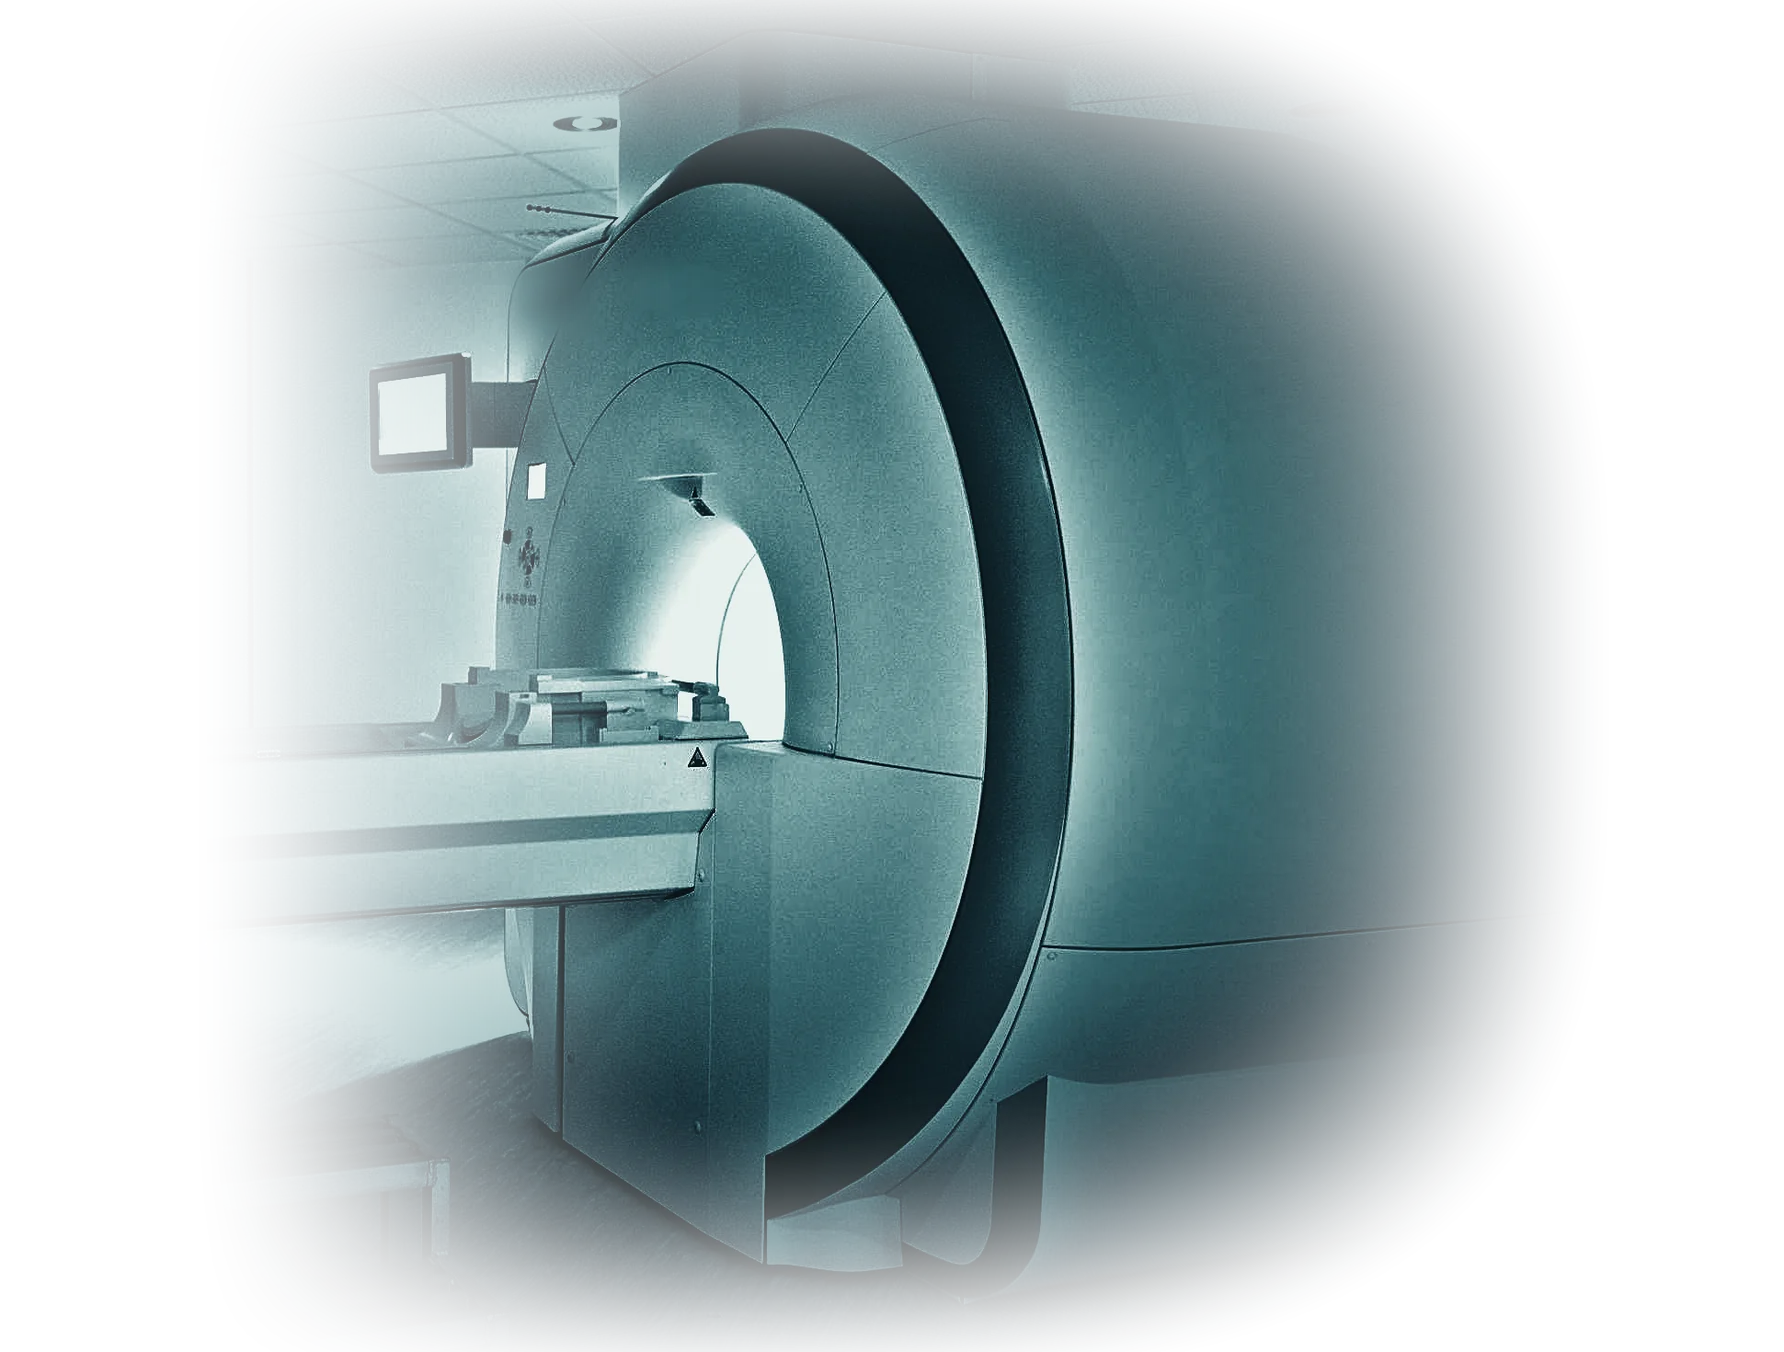
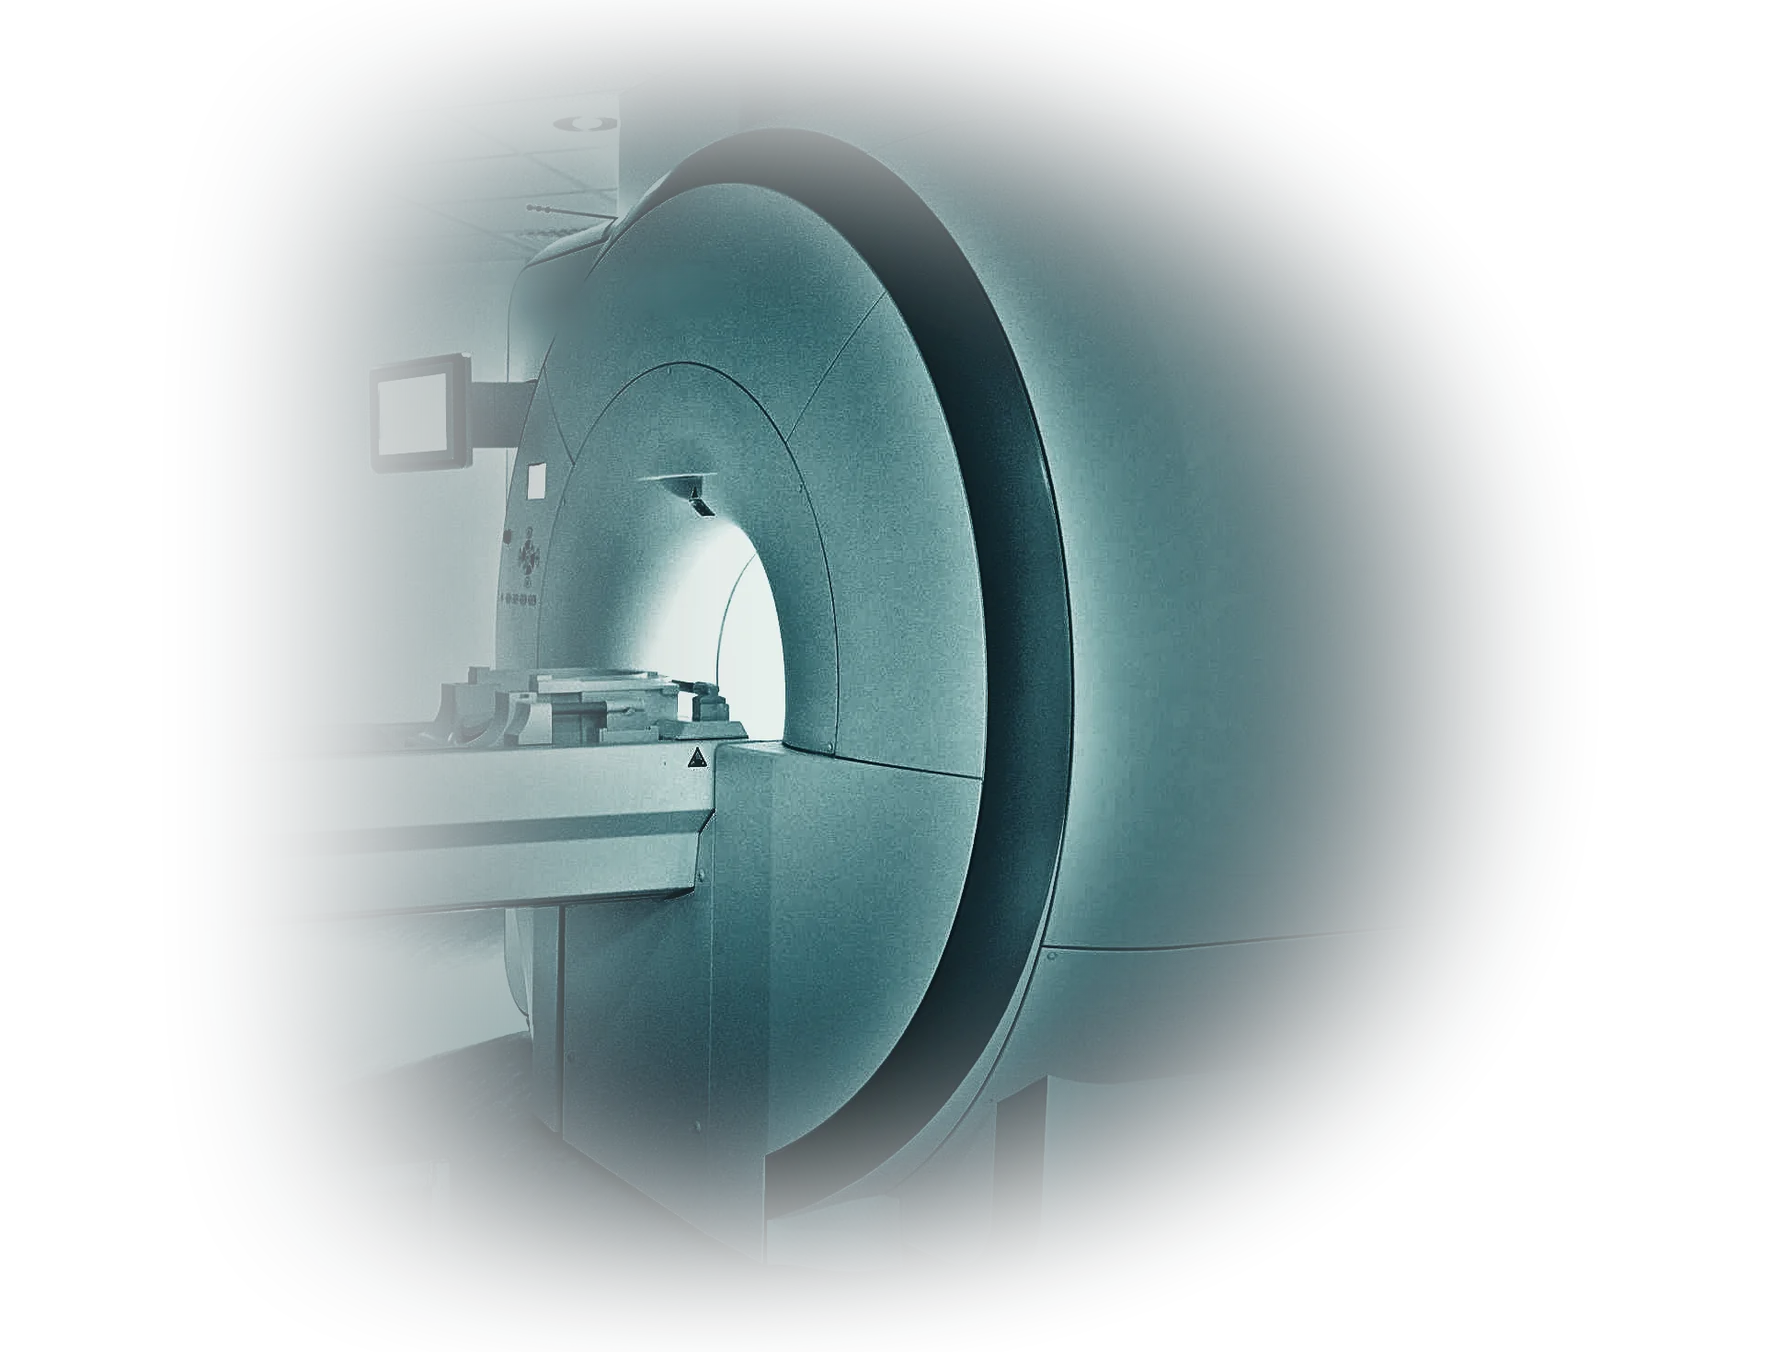
champaign-imaging: hero mask floor matches page ink (DP x6 check), longer eased fade
Claude-Session: https://claude.ai/code/session_014388NGhbawoyc2wbN2hcP1

diff --git a/_kit/home/champaign-imaging/grade.py b/_kit/home/champaign-imaging/grade.py
@@ -61,7 +61,7 @@ L = np.clip(L * light + glow, 0, 1)
 L = np.clip(L, 0, 1)
 L = L * L * (3 - 2 * L) * 0.55 + L * 0.45
 
-stops = [(0.00, (7, 16, 19)), (0.30, (20, 44, 52)), (0.55, (55, 104, 110)), (0.78, (134, 176, 176)), (1.00, (232, 241, 238))]
+stops = [(0.00, (10, 21, 23)), (0.30, (22, 46, 54)), (0.55, (55, 104, 110)), (0.78, (134, 176, 176)), (1.00, (232, 241, 238))]
 xs = np.array([s[0] for s in stops])
 rgb = np.stack([np.interp(L, xs, np.array([s[1][c] for s in stops])) for c in range(3)], -1)
 # slate in the lower body (logo's lower lobe colour), very slight
@@ -72,12 +72,15 @@ rgb = rgb * (1 - wt) + slate * wt
 # alpha: long eased superellipse centred on the gantry
 gx, gy = 1500 - cx0, 900 - cy0
 rx, ry = w * 0.56, h * 0.54
-r = (np.abs((xx - gx) / rx) ** 3.2 + np.abs((yy - gy) / ry) ** 3.2) ** (1 / 3.2)
-t = np.clip((1.0 - r) / 0.42, 0, 1)
-alpha = t * t * (3 - 2 * t)
+r = (np.abs((xx - gx) / rx) ** 2.4 + np.abs((yy - gy) / ry) ** 2.4) ** (1 / 2.4)
+t = np.clip((1.02 - r) / 0.6, 0, 1)
+alpha = t * t * t * (t * (t * 6 - 15) + 10)
 # the table runs out of the frame on the left: a longer fade there
-lf = np.clip((xx - w * 0.10) / (w * 0.30), 0, 1)
-alpha *= lf * lf * (3 - 2 * lf)
+lf = np.clip((xx - w * 0.06) / (w * 0.40), 0, 1)
+alpha *= lf * lf * lf * (lf * (lf * 6 - 15) + 10)
+# near the mask edge the colour itself sinks to the page ink (#0a1517), so no faint bright rim survives a x6 boost
+ink = np.array([10, 21, 23], np.float32)
+rgb = ink + (rgb - ink) * (alpha ** 0.7)[..., None]
 outa = np.dstack([np.clip(rgb, 0, 255), alpha * 255]).astype(np.uint8)
 res = Image.fromarray(outa, 'RGBA')
 res = res.resize((int(w * 0.92), int(h * 0.92)), Image.LANCZOS)

diff --git a/_kit/dossiers/champaign-imaging.md b/_kit/dossiers/champaign-imaging.md
@@ -24,7 +24,7 @@ Sources fetched 2026-11-21: champaignimaging.com (/, /nextgen-neuroimaging/, /te
 - Built: ink #0a1517 (matched to the graded hero), accent teal lifted to #7dbfb0 on dark, #2f6b60 on light; slate in the story. Mark: the logo's brain cropped from their PNG (pulse line knocked out); wordmark Raleway CHAMPAIGN / IMAGING. Display Literata, text Figtree.
 
 ## Build
-- Hero (option b): Pexels photo 7089013 by MART PRODUCTION (an MRI scanner: gantry, bore and table), Pexels licence: https://www.pexels.com/photo/photo-of-ct-scan-medical-equipment-7089013/ (CDN https://images.pexels.com/photos/7089013/pexels-photo-7089013.jpeg?w=2600). Pexels titles it "CT scan" but it is an MRI scanner. Not the same frame as omnecoil's 7089017 (front bore close-up); this is the side view with the whole gantry. _kit/home/champaign-imaging/grade.py: maker lettering and model plate softened, light falls off from the bore, tonal tritone to teal/slate, long eased superellipse alpha mask. Placed centred at ~73% of the content width, never upscaled; measured H1/lede-to-first-pixel gap 118px at 1280, 194px at 1440, 187px at 1920x930, 182px at 1920x1080. Slow Ken Burns; no pointer. Phones: top band fading above the text.
+- Hero (option b): Pexels photo 7089013 by MART PRODUCTION (an MRI scanner: gantry, bore and table), Pexels licence: https://www.pexels.com/photo/photo-of-ct-scan-medical-equipment-7089013/ (CDN https://images.pexels.com/photos/7089013/pexels-photo-7089013.jpeg?w=2600). Pexels titles it "CT scan" but it is an MRI scanner. Not the same frame as omnecoil's 7089017 (front bore close-up); this is the side view with the whole gantry. _kit/home/champaign-imaging/grade.py: maker lettering and model plate softened, light falls off from the bore, tonal tritone to teal/slate, long eased superellipse alpha mask. Placed centred at ~73% of the content width, never upscaled; measured H1/lede-to-first-pixel gap 144px at 1280, 224px at 1440, 227px at 1920x930 and 1920x1080; x6 luminance check: no straight edge (mask floor equals the page ink). Slow Ken Burns; no pointer. Phones: top band fading above the text.
 - Story: one engraved axial schematic of a child's head in the head-only coil: loud gradient fronts → gentle ramp (ZTE/MB-SWIFT) → head moves, ghosts, 3D radial spokes and k-space inset → corrected slice and green scan-quality light.
 - Build-out pages: _kit/lib/buildout.js (@libs buildout). Technology / GenNext NP / Team / News open #/more/<item>; Contact scrolls.
 - Gates: smoke, reveal/anim/clip 1440+390, overlay, masthead, mixed, polish, loader, unstyled, cramped, hoverpad, split, logo, buildout-test, fit-audit, loader-contrast all OK. balance-audit flags the statement as off-centre (the DN statement+stats row; same flag on the approved xcellassay); hero-audit "no title found" (same on xcellassay).
